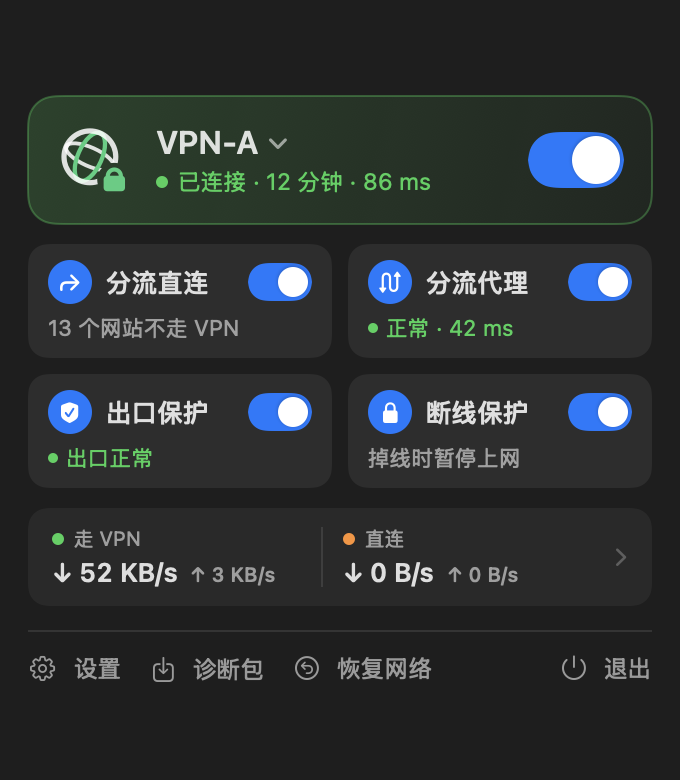
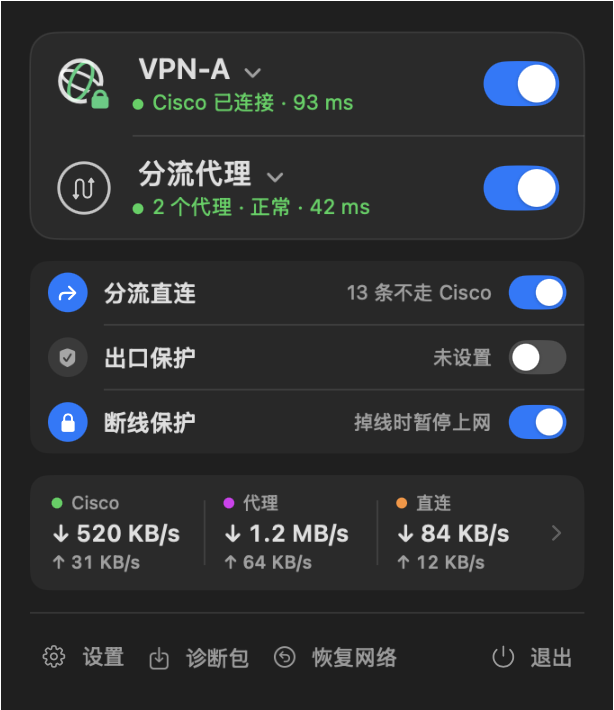
Prepare AlwaysConnect 0.4.0
DESIGN §69.20, UI-DESIGN 改版 C, mac-proof L18, HANDOVER, README text and
panel picture (offscreen, sample data only); version 0.4.0 (build 20).

diff --git a/DESIGN.md b/DESIGN.md
@@ -4818,3 +4818,60 @@ DNS 得到 198.19.128.x，HTTPS 200，代理日志记录的是域名；未列入
   - secret-vault-test：钥匙串换成内存替身，不碰真实钥匙串。覆盖：老条目读一次就复制进 vault；第二个密码进同一个 vault；之后只读 vault；有没有密码只看名字；保存、修改、删除一个不影响其他；打不开的 vault 不覆盖写、不退回老条目；不复制的读取；全新安装第一个密码才建 vault。
   - 更新时只认换过的服务进程：本机编译与 on-demand、会话等现有检查通过。
   - 需实测（L17）：从 0.3.6 更新到 0.3.7 时，登录不再被拒；0.3.7 第一次运行问两次；之后再更新只问一次。
+
+### 69.20 只开代理（Cisco 关着也能用分流代理）；面板改为设计 C；界面上的"VPN"改叫 Cisco（0.4.0，2026-11-26）
+
+用户："是时候考虑支持关闭公司vpn的能力，只开代理了"；"公司vpn这个说法应该改掉，改为Cisco"；四版设计稿里选了 C（"c"），代理一行选了线条版（"线条版"）；Hysteria2 等新代理类型另做（"在分流代理里面新增一种……类型就行吧"，代理服务器走不走 Cisco 照分流名单）。
+
+**原来为什么做不到**：分流代理挂在自建连接的分流会话上。系统 DNS 是 vpnc-script 借隧道的服务项（OverridePrimary 的 utun 服务、DNS 指 127.0.0.1）指到本项目的转发器，没连 Cisco 就没有这条路，转发器、重定向、路由也都随连接启停。
+
+**不靠隧道让系统问我们的转发器**（CI 的 macOS runner 上 root 实测，临时分支，没合并）：
+- 单独登记一个只有 DNS 的服务项 `State:/Network/Service/AlwaysConnect-Proxy/DNS`：ServerAddresses = 127.0.0.1，SupplementalMatchDomains = [""]（空域名，即所有域名）。它成为第一个解析器，所有查询到了转发器。默认路由、主服务、其他服务都不变；删掉这一项，系统马上回到原来的解析器。
+- 不用的办法：
+  - 改写主服务的 State DNS：删掉后 DHCP 给的 DNS 也没了，runner 断了 DNS，直到续租；
+  - 自造一个带 IPv4、OverridePrimary 的主服务：可行，但它会成为主服务，换网时旧路由器会卡住默认路由；
+  - 只登记具体域名的 supplemental：可行但只能按后缀，keyword、regexp、geoip 规则做不到。
+- 只有 DNS，没有 IPv4，所以这一项永远成不了主服务，也不会带出路由。
+
+**做法**（core/src/proxy_only.rs，Rust；后台服务里 ProxyOnlySession 只做外壳）：
+- 转发器还是同一个：命中代理的名字答本项目的地址、不问任何 DNS；其余名字问本地网络自己的 DNS，绑定物理网卡，不会绕回自己。没有隧道，所以不命中代理的流量照常走本地网络。AAAA 与现有分流一样一律空答复。
+- 代理的接收端、回环路由、pf 重定向（锚点 301）与自建连接的分流共用 `split_proxy::redirect`（从 oc_engine 抽出，步骤和故障关闭规则一致），路由台账也是同一个 proxy-routes；同一时刻只有一方拥有它们。
+- 谁来跑由核心判断（`should_run`）：用户要代理、没有自建连接在跑、Cisco 客户端的断线保护没在管。后台服务在这些时刻对一次（reconcileProxyOnly）：App 设置、规则更新、连接开始前（先交出 53 端口、DNS 设置和重定向，再起引擎）、引擎结束后（接回来）、Cisco 断线保护开关。
+- 网络变化（换 Wi-Fi、DNS 变）时，按物理网卡重新取本地 DNS。
+- 收尾与兜底：
+  - 停止时先删 DNS 设置，再撤重定向、路由，最后停转发器。
+  - 后台服务启动时删掉上一次崩溃留下的 DNS 设置。
+  - 「恢复网络」（reset-network.sh）和卸载也会删它，只删本项目这一项。
+  - App 没说一声就不见了（崩溃）：像网络闸门一样先拉起 App，2 分钟内没回来就停掉；App 正常退出时先关代理。
+- App 一侧：
+  - 新 XPC 方法 `setProxyOnly(on)`，只发给与本 App 同一版本的后台服务，3 秒超时。
+  - 每次推送分流规则后都同步一次。经 Cisco 客户端时只推代理规则，Cisco 连着时不要求只开代理。
+  - 「恢复网络」时把代理开关也关掉，开关上看得出来。
+- 面板与图标：网速卡在只开代理时显示（代理、直连两栏）；菜单栏地球全亮、不加角标，和"全关"的半透明区分开；代理检测在只开代理时也跑。
+
+**面板设计 C（线条版）**：
+- 一张总控卡，上下两行。
+  - 上行 Cisco：地球、服务器菜单、"Cisco 已连接 · 93 ms"、开关。连接时长挪到悬停提示里。
+  - 下行分流代理：和地球同画法的线条标记，名称点开列出各代理和「管理代理…」。状态写"2 个代理 · 正常 · 42 ms"，或"关"、"未添加，点这里添加"、"Cisco 连着时由 Cisco 管，断开后恢复"、"Cisco 连上后接着用"；另有开关。
+  - 卡片中性色，状态行带颜色；掉线、拦网、证书不对时卡片描边变红。
+- 分流直连、出口保护、断线保护收成卡下一张列表（每行：图标、名称、状态、开关）。Cisco 关着时这三行只显示名称、变灰、不显示开关，下面一行"这三项跟着 Cisco，连上后生效"。
+- 原来的四个磁贴（PanelTile）删去。
+
+**说法**：
+- 界面上指这条连接的"VPN"改叫 Cisco：面板、菜单栏提示、通知、设置各页、诊断包、连接页、按需连接，以及「断开 Cisco，恢复直连网络」等。
+- 不改的：
+  - 其他程序的 VPN（"另一个 VPN"、"其他 VPN 与代理"）；
+  - 法律提示（"只连接你所在单位授权你使用的 VPN"）；
+  - Cisco 自己的设置名；
+  - 后台服务与核心日志、诊断里的原话。唯一例外是"网关证书校验失败"：App 要比对它，两边一起改成 Cisco。
+- "联系 VPN 管理员"改为"联系 IT 管理员"。
+
+**验证级别**：
+- cargo test：只开代理的运行条件；DNS 设置只登记本项目的 DNS、不带 IPv4、不抢主服务；会话真实收发——命中的名字答本项目地址且不问任何服务器，其余名字问本地网络的 DNS，规则即改即生效，停止后端口释放；自建连接的分流改用共用重定向后原有测试全过。
+- CI（macOS runner，root，proxy-only-check）：
+  - 系统里出现本项目的 DNS 设置；
+  - 经系统解析器，代理网站拿到本项目地址，普通网站照常解析；
+  - 应用按地址连过去，经 pf 到本机 SOCKS5、代理收到的是名字；
+  - 停止后 DNS 设置、路由、重定向都没了，名字回到网络本来的解析。
+- 本机检查：恢复网络与卸载脚本会删这一项（桩命令），App 与后台服务编译、现有各项检查全过。
+- 需实测（L18）：真 Mac 上 Cisco 关时开代理、和 Cisco 之间来回切、换 Wi-Fi、崩溃后的恢复、经 Cisco 客户端的模式。

diff --git a/README.md b/README.md
@@ -13,7 +13,7 @@
 </p>
 
 <p align="center">
-  <img src="docs/images/panel.png" width="360" alt="菜单栏面板：VPN 与服务器在一张卡上，下面是分流直连、分流代理、出口保护、断线保护四个开关">
+  <img src="docs/images/panel.png" width="360" alt="菜单栏面板：一张卡里上面是 Cisco 与服务器、下面是分流代理，各一个开关；下面是分流直连、出口保护、断线保护">
 </p>
 
 ---
@@ -64,13 +64,13 @@
   浏览器通话、家庭公网 IPv6、睡眠/真实换网等覆盖范围见[实测清单](docs/mac-proof-checklist.md#i37-dns动态直连与-webrtc-加固design-48实测进行中)。VPN 网关通过后台服务的专用入口解析。
 - **🔀 按网站分流**：设置 →「分流」一个开关打开，网站有三个去向——
   - **分流直连**：名单里的网站走本地网络、不经过单位网络；
-  - **分流代理**：命中规则的网站经你自己的 SOCKS5 / HTTP 代理（一行地址粘贴即可，支持用户名密码和 UDP）；代理连不上时这些网站直接打不开，不会改走直连或 VPN；
+  - **分流代理**：命中规则的网站经你自己的 SOCKS5 / HTTP 代理（一行地址粘贴即可，支持用户名密码和 UDP）；代理连不上时这些网站直接打不开，不会改走直连或 VPN。Cisco 关着时也能单独开（只开代理），其余网站走本地网络；
   - 其余照常走 VPN。
 
   两份名单写法相同：网址（`example.com`）、开源域名清单（`geosite:apple`）、`geoip:cn`、网段都行，改了立即生效，不用重连。
   App 本身不带任何代理或线路，分流代理只用你自己填的代理。
-- **🎛 面板四个开关**：顶部一张卡上左边选服务器、右边开关 VPN，卡片颜色跟着状态变（绿已连接、红掉线、灰未连接），并显示实时应答时间；
-  下面是分流直连、分流代理、出口保护、断线保护四个开关，各自写着现在是否正常（代理"正常 · 42 ms" / "连不上"）。掉线时红色的「断开 VPN，恢复直连网络」一直在。
+- **🎛 面板**：顶部一张卡分两行，上面是 Cisco（选服务器、开关、实时应答时间），下面是分流代理（开关、"2 个代理 · 正常 · 42 ms" / "连不上"），两个开关各管各的；
+  下面是跟着 Cisco 的分流直连、出口保护、断线保护，Cisco 关着时变灰。掉线时红色的「断开 Cisco，恢复直连网络」一直在。
 - **🏠 家里局域网照常用**：自动识别你现在连的网段，不写死 192.168，到了别人家、换了路由器也能用。
 - **🆘 永远有退路**：面板上一直有「恢复网络」按钮，一键断开 VPN、清掉所有改动、回到直连。App 打不开时，还有一条终端命令能做到同样的事。
 - **📱 只在需要时提醒**：要在手机上确认登录时，菜单栏下面会弹出一张小卡片，确认完自己收起，不弹窗轰炸。

diff --git a/docs/mac-proof-checklist.md b/docs/mac-proof-checklist.md
@@ -484,6 +484,13 @@ K 项模拟补测：通知中心替身验证通知类别、阻断与恢复文案
 
 - [ ] L9（DESIGN §69.11）后台服务更新：装一个新构建，打开 App 时弹的是系统授权框且可按指纹，按后后台服务换成新版、VPN 自动连上、只再弹一次钥匙串；
   点取消则不更新、不再弹管理员密码框；装一个版本号更旧的构建时更新被拒（service-update.log 写明）。
+- [ ] L18（DESIGN §69.20）只开代理：
+  - Cisco 关着时打开「分流代理」，一两秒后命中规则的网站经代理打开，其余网站照常走本地网络，菜单栏地球全亮；
+  - 连上 Cisco 后代理照常（自建连接）；断开 Cisco 后代理接着用，不断网；
+  - 换 Wi-Fi 后代理网站和普通网站都还能打开；
+  - 关掉代理、退出 App、点「恢复网络」后，`scutil --dns` 第一个解析器不再是 127.0.0.1；
+  - 经 Cisco 客户端连接时，连着的期间面板写"Cisco 连着时由 Cisco 管"，断开后代理恢复；
+  - 面板按设计 C 显示，Cisco 关着时三项变灰并有一行说明。
 - [ ] L17（DESIGN §69.19）从 0.3.6 点「更新」装上 0.3.7：relay.log 里没有 "step failed: 后台服务没有接受连接请求"，一次就连上；这一次钥匙串会问两次（读两个老条目），之后再更新只问一次（一个 vault 条目）；设置里改密码、加删代理密码后都能正常连接。
 - [ ] L16（DESIGN §69.18）从 0.3.5 点「更新」装上 0.3.6：按一次指纹后自动连上，不在"网络已拦截，正在连接 VPN"上停住；若停住，15 秒内自己重来（relay.log 里有 "starting the login again"），最多两次后写明原因。连上后打开面板，网速卡一出来就是三栏（有启用的代理时），三栏的数同时出现，不再由两栏变三栏。
 - [ ] L15（DESIGN §69.17）经代理下载一个大文件：面板「代理」一栏的下载速度接近实际速度；同时「直连」或「走 VPN」（看代理服务器走哪条路）不再把这份算进去。
